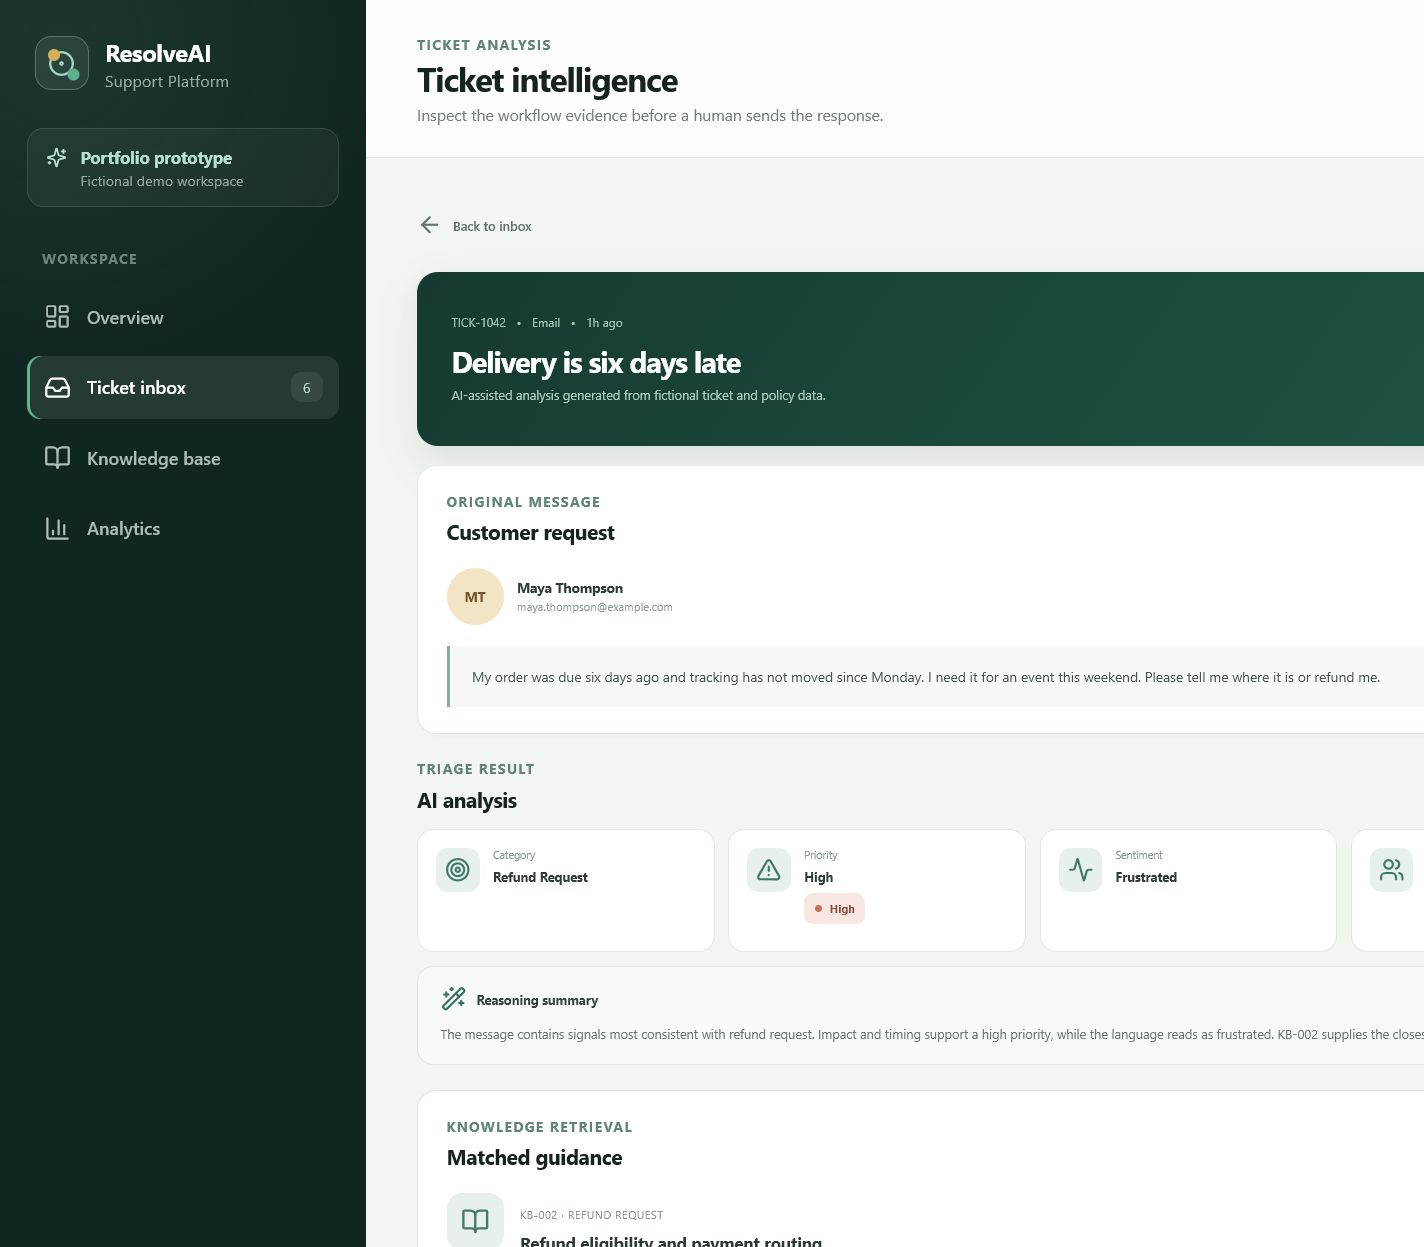
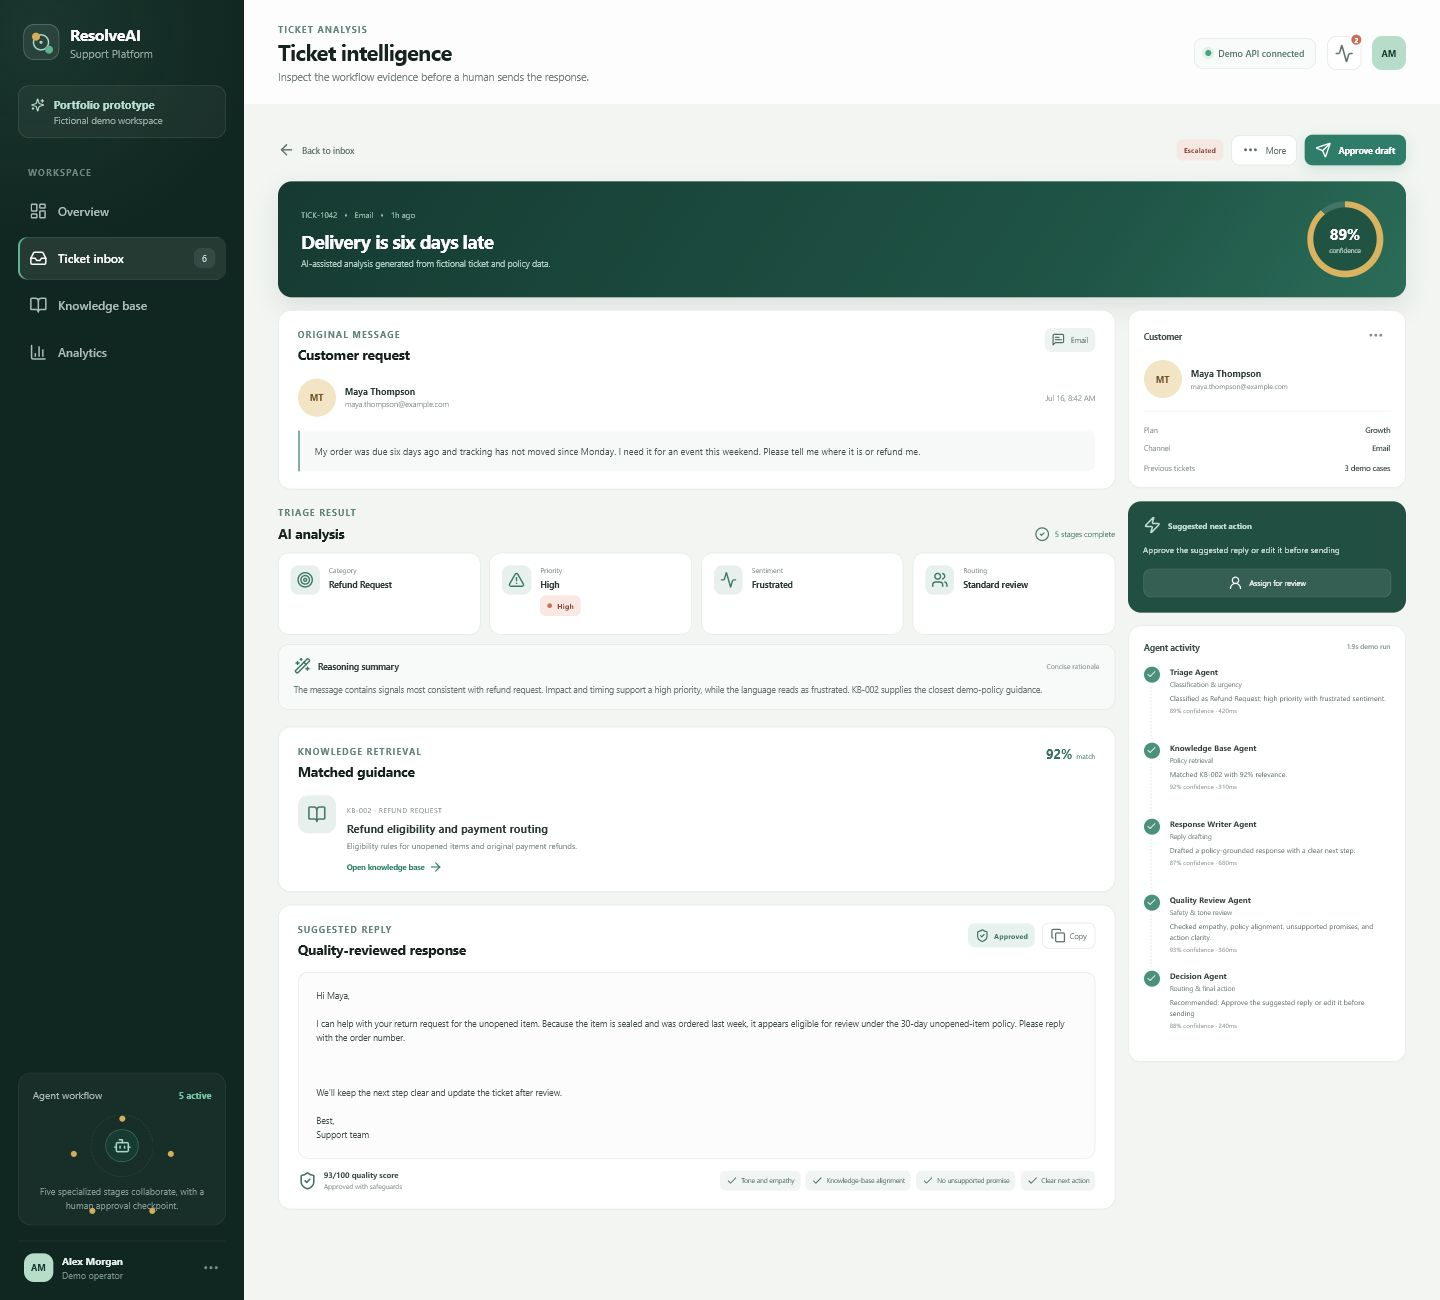
Publish live demo links and portfolio screenshots

diff --git a/README.md b/README.md
@@ -160,6 +160,15 @@ If the frontend cannot reach the API, it intentionally falls back to its bundled
 
 ## Deployment
 
+### Live portfolio deployment
+
+- **Frontend:** [resolveai-support-platform.vercel.app](https://resolveai-support-platform.vercel.app)
+- **Backend API:** [resolveai-support-api.onrender.com](https://resolveai-support-api.onrender.com)
+- **Health check:** [resolveai-support-api.onrender.com/health](https://resolveai-support-api.onrender.com/health)
+- **API documentation:** [resolveai-support-api.onrender.com/docs](https://resolveai-support-api.onrender.com/docs)
+
+The public frontend uses the deterministic demo API and does not require authentication or an external AI key. The free Render service may take up to roughly 50 seconds to wake after a period of inactivity.
+
 ### Backend on Render
 
 The root `render.yaml` contains the service configuration.
@@ -186,7 +195,7 @@ The frontend uses hash-based navigation, so portfolio routes remain stable on st
 
 ## Portfolio screenshots
 
-The repository includes browser-tested screenshots captured at a 1440 × 1000 desktop viewport:
+The repository includes browser-tested screenshots captured from the connected public deployment at a 1440px-wide desktop viewport:
 
 - `screenshots/01-dashboard.png` — metrics, workflow chart, issue mix, recent tickets, and agent stages
 - `screenshots/02-ticket-analysis.png` — ticket message, triage, sentiment, priority, reasoning, knowledge match, reviewed response, and agent activity
